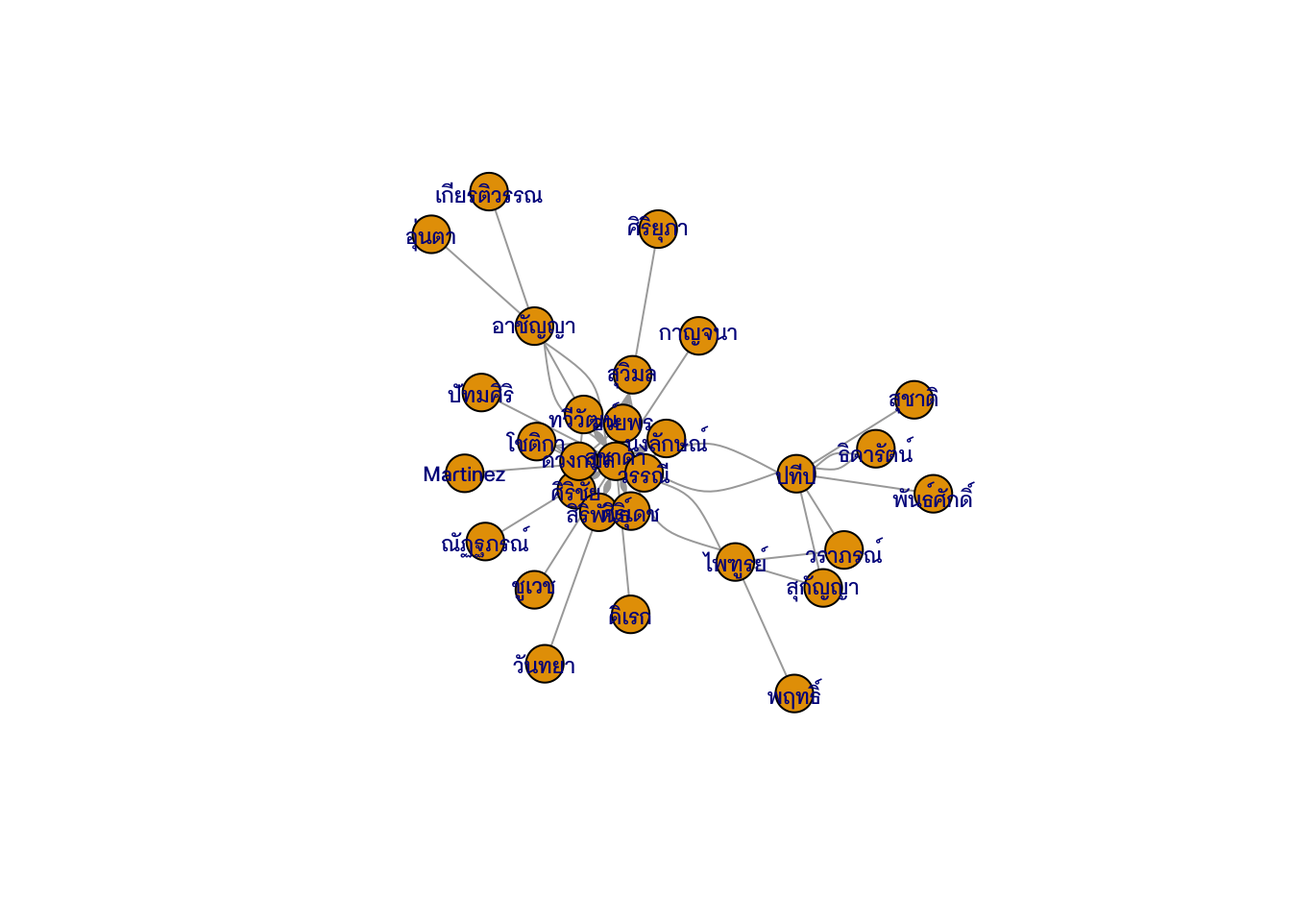
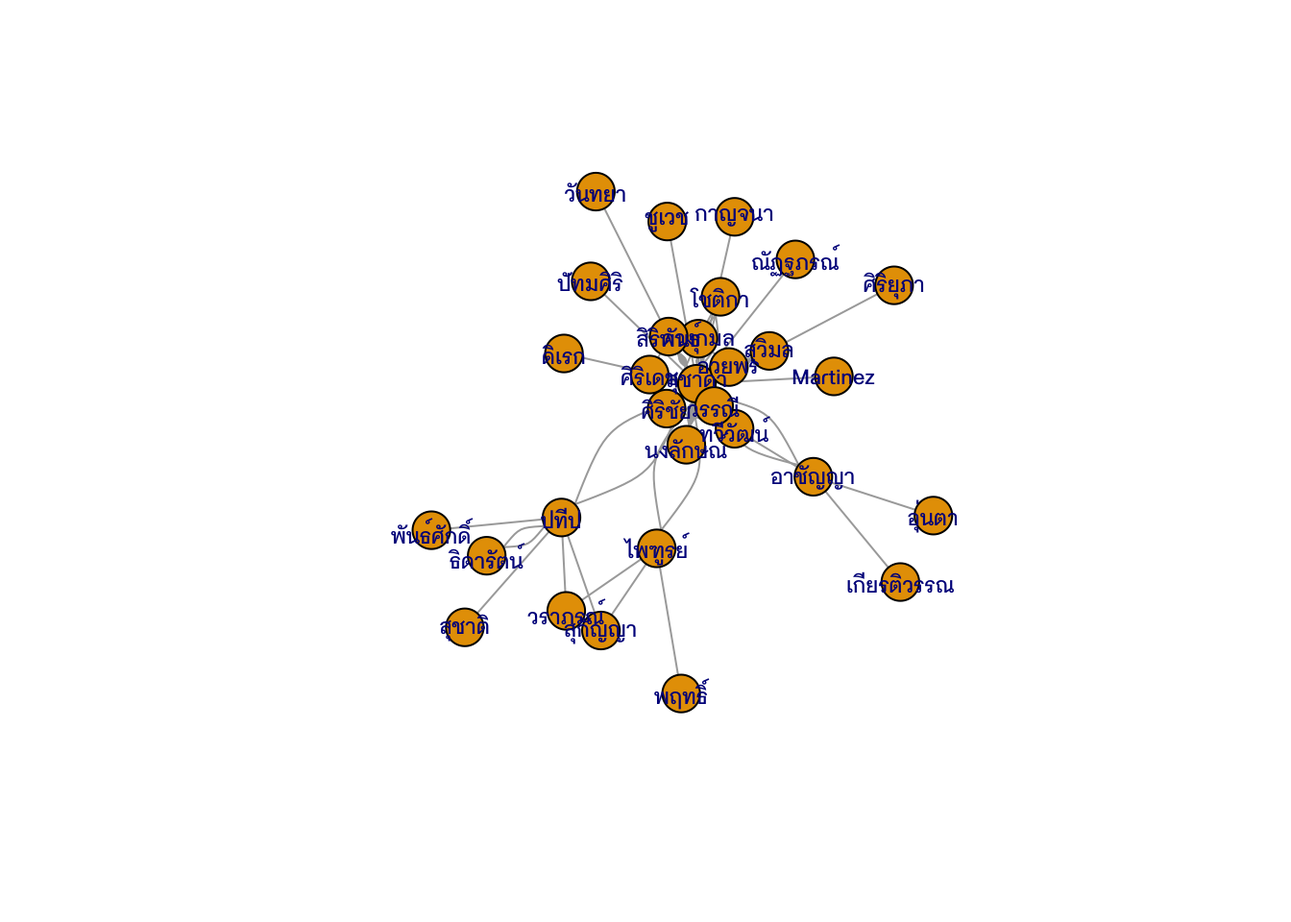
update

diff --git a/DataVisualization/week11/index.html b/DataVisualization/week11/index.html
@@ -134,6 +134,7 @@ pre > code.sourceCode > span > a:first-child::before { text-decoration: underlin
   <li><a href="#random-graphs-analysis" id="toc-random-graphs-analysis" class="nav-link" data-scroll-target="#random-graphs-analysis"><span class="header-section-number">8.6.3</span> Random Graphs Analysis</a></li>
   <li><a href="#กจกรรม-3" id="toc-กจกรรม-3" class="nav-link" data-scroll-target="#กจกรรม-3"><span class="header-section-number">8.6.4</span> กิจกรรม</a></li>
   </ul></li>
+  <li><a href="#เปรยบเทยบ-igraph-กบ-ggraph" id="toc-เปรยบเทยบ-igraph-กบ-ggraph" class="nav-link" data-scroll-target="#เปรยบเทยบ-igraph-กบ-ggraph"><span class="header-section-number">8.7</span> เปรียบเทียบ igraph กับ ggraph</a></li>
   </ul></li>
   <li><a href="#ทบทวน" id="toc-ทบทวน" class="nav-link" data-scroll-target="#ทบทวน"><span class="header-section-number">9</span> ทบทวน</a></li>
   </ul>
@@ -240,9 +241,9 @@ D 0 0 1 0</code></pre>
 <div class="sourceCode cell-code" id="cb6"><pre class="sourceCode r code-with-copy"><code class="sourceCode r"><span id="cb6-1"><a href="#cb6-1" aria-hidden="true" tabindex="-1"></a>g <span class="ot">&lt;-</span> <span class="fu">graph_from_edgelist</span>(<span class="fu">as.matrix</span>(edges), <span class="at">directed =</span> F)</span>
 <span id="cb6-2"><a href="#cb6-2" aria-hidden="true" tabindex="-1"></a>g</span></code><button title="Copy to Clipboard" class="code-copy-button"><i class="bi"></i></button></pre></div>
 <div class="cell-output cell-output-stdout">
-<pre><code>IGRAPH 0dd9c84 UN-- 4 4 -- 
+<pre><code>IGRAPH 0ab8567 UN-- 4 4 -- 
 + attr: name (v/c)
-+ edges from 0dd9c84 (vertex names):
++ edges from 0ab8567 (vertex names):
 [1] A--B B--C C--D A--D</code></pre>
 </div>
 </div>
@@ -401,9 +402,9 @@ $ mainStat          &lt;chr&gt; "HLM,SEM,Latent Growth Curve Model", "MANOVA, Pa
 <span id="cb18-4"><a href="#cb18-4" aria-hidden="true" tabindex="-1"></a>                                              <span class="at">directed =</span> F)</span>
 <span id="cb18-5"><a href="#cb18-5" aria-hidden="true" tabindex="-1"></a>teacher_network_igraph</span></code><button title="Copy to Clipboard" class="code-copy-button"><i class="bi"></i></button></pre></div>
 <div class="cell-output cell-output-stdout">
-<pre><code>IGRAPH a67702e UN-- 30 125 -- 
+<pre><code>IGRAPH 616bf61 UN-- 30 125 -- 
 + attr: name (v/c)
-+ edges from a67702e (vertex names):
++ edges from 616bf61 (vertex names):
  [1] ศิริชัย --สุชาดา    ศิริชัย --ทวีวัฒน์    ศิริชัย --ศิริเดช    สุชาดา--นงลักษณ์  
  [5] สุชาดา--วรรณี     สุชาดา--สิริพันธุ์    สุชาดา--ศิริเดช    สุชาดา--สิริพันธุ์   
  [9] สุชาดา--วรรณี     สุชาดา--ศิริเดช    สุชาดา--สิริพันธุ์    สุชาดา--วรรณี    
@@ -422,9 +423,9 @@ $ mainStat          &lt;chr&gt; "HLM,SEM,Latent Growth Curve Model", "MANOVA, Pa
 <span id="cb20-3"><a href="#cb20-3" aria-hidden="true" tabindex="-1"></a>                                                <span class="at">directed =</span> F)</span>
 <span id="cb20-4"><a href="#cb20-4" aria-hidden="true" tabindex="-1"></a>teacher_network_igraph </span></code><button title="Copy to Clipboard" class="code-copy-button"><i class="bi"></i></button></pre></div>
 <div class="cell-output cell-output-stdout">
-<pre><code>IGRAPH 25e24bc UN-- 30 125 -- 
+<pre><code>IGRAPH 2cb5a55 UN-- 30 125 -- 
 + attr: name (v/c)
-+ edges from 25e24bc (vertex names):
++ edges from 2cb5a55 (vertex names):
  [1] ศิริชัย --สุชาดา    ศิริชัย --ทวีวัฒน์    ศิริชัย --ศิริเดช    สุชาดา--นงลักษณ์  
  [5] สุชาดา--วรรณี     สุชาดา--สิริพันธุ์    สุชาดา--ศิริเดช    สุชาดา--สิริพันธุ์   
  [9] สุชาดา--วรรณี     สุชาดา--ศิริเดช    สุชาดา--สิริพันธุ์    สุชาดา--วรรณี    
@@ -464,7 +465,7 @@ $ mainStat          &lt;chr&gt; "HLM,SEM,Latent Growth Curve Model", "MANOVA, Pa
 <div class="cell">
 <div class="sourceCode cell-code" id="cb26"><pre class="sourceCode r code-with-copy"><code class="sourceCode r"><span id="cb26-1"><a href="#cb26-1" aria-hidden="true" tabindex="-1"></a><span class="fu">E</span>(teacher_network_igraph)</span></code><button title="Copy to Clipboard" class="code-copy-button"><i class="bi"></i></button></pre></div>
 <div class="cell-output cell-output-stdout">
-<pre><code>+ 125/125 edges from 25e24bc (vertex names):
+<pre><code>+ 125/125 edges from 2cb5a55 (vertex names):
  [1] ศิริชัย --สุชาดา    ศิริชัย --ทวีวัฒน์    ศิริชัย --ศิริเดช    สุชาดา--นงลักษณ์  
  [5] สุชาดา--วรรณี     สุชาดา--สิริพันธุ์    สุชาดา--ศิริเดช    สุชาดา--สิริพันธุ์   
  [9] สุชาดา--วรรณี     สุชาดา--ศิริเดช    สุชาดา--สิริพันธุ์    สุชาดา--วรรณี    
@@ -591,9 +592,9 @@ $gender
 <div class="cell">
 <div class="sourceCode cell-code" id="cb34"><pre class="sourceCode r code-with-copy"><code class="sourceCode r"><span id="cb34-1"><a href="#cb34-1" aria-hidden="true" tabindex="-1"></a>graph</span></code><button title="Copy to Clipboard" class="code-copy-button"><i class="bi"></i></button></pre></div>
 <div class="cell-output cell-output-stdout">
-<pre><code>IGRAPH 25e24bc UN-- 30 125 -- 
+<pre><code>IGRAPH 2cb5a55 UN-- 30 125 -- 
 + attr: name (v/c), role (e/c)
-+ edges from 25e24bc (vertex names):
++ edges from 2cb5a55 (vertex names):
  [1] ศิริชัย --สุชาดา    ศิริชัย --ทวีวัฒน์    ศิริชัย --ศิริเดช    สุชาดา--นงลักษณ์  
  [5] สุชาดา--วรรณี     สุชาดา--สิริพันธุ์    สุชาดา--ศิริเดช    สุชาดา--สิริพันธุ์   
  [9] สุชาดา--วรรณี     สุชาดา--ศิริเดช    สุชาดา--สิริพันธุ์    สุชาดา--วรรณี    
@@ -691,10 +692,10 @@ $gender
 <span id="cb40-3"><a href="#cb40-3" aria-hidden="true" tabindex="-1"></a>                                         <span class="at">directed =</span> F)</span>
 <span id="cb40-4"><a href="#cb40-4" aria-hidden="true" tabindex="-1"></a>graph_with_attr</span></code><button title="Copy to Clipboard" class="code-copy-button"><i class="bi"></i></button></pre></div>
 <div class="cell-output cell-output-stdout">
-<pre><code>IGRAPH 0841f13 UN-- 30 125 -- 
+<pre><code>IGRAPH 9e54baa UN-- 30 125 -- 
 + attr: name (v/c), gender (v/c), code (e/n), year (e/n), name_role
 | (e/c)
-+ edges from 0841f13 (vertex names):
++ edges from 9e54baa (vertex names):
  [1] ศิริชัย --สุชาดา    ศิริชัย --ทวีวัฒน์    ศิริชัย --ศิริเดช    สุชาดา--นงลักษณ์  
  [5] สุชาดา--วรรณี     สุชาดา--สิริพันธุ์    สุชาดา--ศิริเดช    สุชาดา--สิริพันธุ์   
  [9] สุชาดา--วรรณี     สุชาดา--ศิริเดช    สุชาดา--สิริพันธุ์    สุชาดา--วรรณี    
@@ -713,7 +714,7 @@ $gender
 <div class="cell">
 <div class="sourceCode cell-code" id="cb42"><pre class="sourceCode r code-with-copy"><code class="sourceCode r"><span id="cb42-1"><a href="#cb42-1" aria-hidden="true" tabindex="-1"></a><span class="fu">E</span>(graph_with_attr)[[<span class="fu">.from</span>(<span class="st">"ศิริชัย"</span>)]]</span></code><button title="Copy to Clipboard" class="code-copy-button"><i class="bi"></i></button></pre></div>
 <div class="cell-output cell-output-stdout">
-<pre><code>+ 10/125 edges from 0841f13 (vertex names):
+<pre><code>+ 10/125 edges from 9e54baa (vertex names):
     tail   head tid hid code year  name_role
 1   ศิริชัย  สุชาดา   1   2    1 2543 co_advisor
 2   ศิริชัย  ทวีวัฒน์   1   9    1 2543  commitee1
@@ -728,7 +729,7 @@ $gender
 </div>
 <div class="sourceCode cell-code" id="cb44"><pre class="sourceCode r code-with-copy"><code class="sourceCode r"><span id="cb44-1"><a href="#cb44-1" aria-hidden="true" tabindex="-1"></a><span class="fu">E</span>(graph_with_attr)[[year <span class="sc">&gt;</span> <span class="dv">2550</span>]]</span></code><button title="Copy to Clipboard" class="code-copy-button"><i class="bi"></i></button></pre></div>
 <div class="cell-output cell-output-stdout">
-<pre><code>+ 28/125 edges from 0841f13 (vertex names):
+<pre><code>+ 28/125 edges from 9e54baa (vertex names):
     tail     head tid hid code year  name_role
 9  สุชาดา     วรรณี   2  12    5 2551 co_advisor
 10 สุชาดา    ศิริเดช   2  10    6 2551 co_advisor
@@ -761,7 +762,7 @@ $gender
 </div>
 <div class="sourceCode cell-code" id="cb46"><pre class="sourceCode r code-with-copy"><code class="sourceCode r"><span id="cb46-1"><a href="#cb46-1" aria-hidden="true" tabindex="-1"></a><span class="fu">V</span>(graph_with_attr)[[<span class="dv">1</span><span class="sc">:</span><span class="dv">6</span>]]</span></code><button title="Copy to Clipboard" class="code-copy-button"><i class="bi"></i></button></pre></div>
 <div class="cell-output cell-output-stdout">
-<pre><code>+ 6/30 vertices, named, from 0841f13:
+<pre><code>+ 6/30 vertices, named, from 9e54baa:
     name gender
 1   ศิริชัย   Male
 2  สุชาดา Female
@@ -772,7 +773,7 @@ $gender
 </div>
 <div class="sourceCode cell-code" id="cb48"><pre class="sourceCode r code-with-copy"><code class="sourceCode r"><span id="cb48-1"><a href="#cb48-1" aria-hidden="true" tabindex="-1"></a><span class="fu">V</span>(graph_with_attr)[[gender <span class="sc">==</span> <span class="st">"Male"</span>]]</span></code><button title="Copy to Clipboard" class="code-copy-button"><i class="bi"></i></button></pre></div>
 <div class="cell-output cell-output-stdout">
-<pre><code>+ 11/30 vertices, named, from 0841f13:
+<pre><code>+ 11/30 vertices, named, from 9e54baa:
        name gender
 1      ศิริชัย   Male
 3       ปทีป   Male
@@ -797,10 +798,10 @@ $gender
 <span id="cb50-2"><a href="#cb50-2" aria-hidden="true" tabindex="-1"></a><span class="fu">V</span>(graph_with_attr)<span class="sc">$</span>color <span class="ot">&lt;-</span> <span class="fu">ifelse</span>(<span class="fu">V</span>(graph_with_attr)<span class="sc">$</span>gender <span class="sc">==</span> <span class="st">"Male"</span>, <span class="st">"steelblue"</span>,<span class="st">"orange"</span>)</span>
 <span id="cb50-3"><a href="#cb50-3" aria-hidden="true" tabindex="-1"></a>graph_with_attr</span></code><button title="Copy to Clipboard" class="code-copy-button"><i class="bi"></i></button></pre></div>
 <div class="cell-output cell-output-stdout">
-<pre><code>IGRAPH 0841f13 UN-- 30 125 -- 
+<pre><code>IGRAPH 9e54baa UN-- 30 125 -- 
 + attr: name (v/c), gender (v/c), color (v/c), code (e/n), year (e/n),
 | name_role (e/c)
-+ edges from 0841f13 (vertex names):
++ edges from 9e54baa (vertex names):
  [1] ศิริชัย --สุชาดา    ศิริชัย --ทวีวัฒน์    ศิริชัย --ศิริเดช    สุชาดา--นงลักษณ์  
  [5] สุชาดา--วรรณี     สุชาดา--สิริพันธุ์    สุชาดา--ศิริเดช    สุชาดา--สิริพันธุ์   
  [9] สุชาดา--วรรณี     สุชาดา--ศิริเดช    สุชาดา--สิริพันธุ์    สุชาดา--วรรณี    
@@ -1186,7 +1187,7 @@ $gender
 <div class="sourceCode cell-code" id="cb73"><pre class="sourceCode r code-with-copy"><code class="sourceCode r"><span id="cb73-1"><a href="#cb73-1" aria-hidden="true" tabindex="-1"></a><span class="do">## อ.ดวงกมลเชิญใครมาเป็นกรรมการบ้าง</span></span>
 <span id="cb73-2"><a href="#cb73-2" aria-hidden="true" tabindex="-1"></a><span class="fu">incident</span>(g3, <span class="st">"ดวงกมล"</span>, <span class="at">mode =</span> <span class="st">"in"</span>) </span></code><button title="Copy to Clipboard" class="code-copy-button"><i class="bi"></i></button></pre></div>
 <div class="cell-output cell-output-stdout">
-<pre><code>+ 6/16 edges from 95b52e6 (vertex names):
+<pre><code>+ 6/16 edges from faf5d4c (vertex names):
 [1] วรรณี -&gt;ดวงกมล ศิริชัย -&gt;ดวงกมล สิริพันธุ์-&gt;ดวงกมล สุชาดา-&gt;ดวงกมล อวยพร-&gt;ดวงกมล
 [6] โชติกา-&gt;ดวงกมล</code></pre>
 </div>
@@ -1254,12 +1255,12 @@ $gender
 <div class="cell">
 <div class="sourceCode cell-code" id="cb78"><pre class="sourceCode r code-with-copy"><code class="sourceCode r"><span id="cb78-1"><a href="#cb78-1" aria-hidden="true" tabindex="-1"></a><span class="fu">neighbors</span>(all_g, <span class="st">"ศิริเดช"</span>, <span class="at">mode =</span> <span class="st">"all"</span>)</span></code><button title="Copy to Clipboard" class="code-copy-button"><i class="bi"></i></button></pre></div>
 <div class="cell-output cell-output-stdout">
-<pre><code>+ 5/30 vertices, named, from 5d4f491:
+<pre><code>+ 5/30 vertices, named, from 9f09caf:
 [1] ศิริชัย  สิริพันธุ์ สุชาดา สุชาดา สุชาดา</code></pre>
 </div>
 <div class="sourceCode cell-code" id="cb80"><pre class="sourceCode r code-with-copy"><code class="sourceCode r"><span id="cb80-1"><a href="#cb80-1" aria-hidden="true" tabindex="-1"></a><span class="fu">neighbors</span>(all_g, <span class="st">"ศิริเดช"</span>, <span class="at">mode =</span> <span class="st">"in"</span>)</span></code><button title="Copy to Clipboard" class="code-copy-button"><i class="bi"></i></button></pre></div>
 <div class="cell-output cell-output-stdout">
-<pre><code>+ 5/30 vertices, named, from 5d4f491:
+<pre><code>+ 5/30 vertices, named, from 9f09caf:
 [1] ศิริชัย  สิริพันธุ์ สุชาดา สุชาดา สุชาดา</code></pre>
 </div>
 </div>
@@ -1283,7 +1284,7 @@ $gender
 <span id="cb84-2"><a href="#cb84-2" aria-hidden="true" tabindex="-1"></a>y <span class="ot">&lt;-</span> <span class="fu">neighbors</span>(all_g, <span class="st">"พฤทธิ์"</span>, <span class="at">mode =</span> <span class="st">"all"</span>)</span>
 <span id="cb84-3"><a href="#cb84-3" aria-hidden="true" tabindex="-1"></a><span class="fu">intersection</span>(x,y)</span></code><button title="Copy to Clipboard" class="code-copy-button"><i class="bi"></i></button></pre></div>
 <div class="cell-output cell-output-stdout">
-<pre><code>+ 1/30 vertex, named, from 5d4f491:
+<pre><code>+ 1/30 vertex, named, from 9f09caf:
 [1] ไพฑูรย์</code></pre>
 </div>
 </div>
@@ -1295,7 +1296,7 @@ $gender
 <div class="sourceCode cell-code" id="cb86"><pre class="sourceCode r code-with-copy"><code class="sourceCode r"><span id="cb86-1"><a href="#cb86-1" aria-hidden="true" tabindex="-1"></a><span class="fu">farthest_vertices</span>(all_g)</span></code><button title="Copy to Clipboard" class="code-copy-button"><i class="bi"></i></button></pre></div>
 <div class="cell-output cell-output-stdout">
 <pre><code>$vertices
-+ 2/30 vertices, named, from 5d4f491:
++ 2/30 vertices, named, from 9f09caf:
 [1] ดวงกมล ศิริยุภา 
 
 $distance
@@ -1306,7 +1307,7 @@ $distance
 <div class="cell">
 <div class="sourceCode cell-code" id="cb88"><pre class="sourceCode r code-with-copy"><code class="sourceCode r"><span id="cb88-1"><a href="#cb88-1" aria-hidden="true" tabindex="-1"></a><span class="fu">get_diameter</span>(all_g)</span></code><button title="Copy to Clipboard" class="code-copy-button"><i class="bi"></i></button></pre></div>
 <div class="cell-output cell-output-stdout">
-<pre><code>+ 4/30 vertices, named, from 5d4f491:
+<pre><code>+ 4/30 vertices, named, from 9f09caf:
 [1] ดวงกมล สุชาดา  สุวิมล   ศิริยุภา </code></pre>
 </div>
 </div>
@@ -1315,7 +1316,7 @@ $distance
 <div class="sourceCode cell-code" id="cb90"><pre class="sourceCode r code-with-copy"><code class="sourceCode r"><span id="cb90-1"><a href="#cb90-1" aria-hidden="true" tabindex="-1"></a><span class="fu">ego</span>(all_g, <span class="dv">1</span>, <span class="st">"สุชาดา"</span>, <span class="at">mode =</span> <span class="st">"in"</span>)</span></code><button title="Copy to Clipboard" class="code-copy-button"><i class="bi"></i></button></pre></div>
 <div class="cell-output cell-output-stdout">
 <pre><code>[[1]]
-+ 8/30 vertices, named, from 5d4f491:
++ 8/30 vertices, named, from 9f09caf:
 [1] สุชาดา  ดวงกมล ปทีป    ศิริชัย   สิริพันธุ์  สุวิมล   อาชัญญา ไพฑูรย์ </code></pre>
 </div>
 </div>
@@ -1533,6 +1534,119 @@ $distance
 </blockquote>
 </section>
 </section>
+<section id="เปรยบเทยบ-igraph-กบ-ggraph" class="level3" data-number="8.7">
+<h3 data-number="8.7" class="anchored" data-anchor-id="เปรยบเทยบ-igraph-กบ-ggraph"><span class="header-section-number">8.7</span> เปรียบเทียบ igraph กับ ggraph</h3>
+<p>การวิเคราะห์ด้านล่างแสดงการสร้างและวิเคราะห์เครือข่ายการดูแลวิทยานิพนธ์ที่มีอาจารย์สุชาดาเกี่ยวข้อง โดยมีการใส่ค่าสถิติของเครือข่ายลงไปบนแผนภาพ แผนภาพแรกลอง plot ด้วย igraph หากลองทำตามจะพบว่าการสร้างแผนภาพให้ได้อย่างต้นฉบับนี้ทำค่อนข้างลำบาก การทำซ้ำก็อาจทำได้ยากด้วยเช่นกัน</p>
+<div class="cell">
+<div class="sourceCode cell-code" id="cb112"><pre class="sourceCode r code-with-copy"><code class="sourceCode r"><span id="cb112-1"><a href="#cb112-1" aria-hidden="true" tabindex="-1"></a><span class="fu">library</span>(RColorBrewer)</span>
+<span id="cb112-2"><a href="#cb112-2" aria-hidden="true" tabindex="-1"></a></span>
+<span id="cb112-3"><a href="#cb112-3" aria-hidden="true" tabindex="-1"></a>g <span class="ot">&lt;-</span> thesis_data <span class="sc">%&gt;%</span> </span>
+<span id="cb112-4"><a href="#cb112-4" aria-hidden="true" tabindex="-1"></a>  <span class="fu">select</span>(code, year, advisor, co_advisor, <span class="fu">starts_with</span>(<span class="st">"commitee"</span>)) <span class="sc">%&gt;%</span> </span>
+<span id="cb112-5"><a href="#cb112-5" aria-hidden="true" tabindex="-1"></a>  <span class="fu">pivot_longer</span>(<span class="at">cols =</span> <span class="sc">-</span><span class="fu">c</span>(<span class="dv">1</span><span class="sc">:</span><span class="dv">3</span>)) <span class="sc">%&gt;%</span> </span>
+<span id="cb112-6"><a href="#cb112-6" aria-hidden="true" tabindex="-1"></a>  <span class="fu">drop_na</span>() <span class="sc">%&gt;%</span> </span>
+<span id="cb112-7"><a href="#cb112-7" aria-hidden="true" tabindex="-1"></a>  <span class="do">## ตัดนามสกุลออก</span></span>
+<span id="cb112-8"><a href="#cb112-8" aria-hidden="true" tabindex="-1"></a>  <span class="fu">mutate</span>(<span class="at">advisor =</span> <span class="fu">str_remove</span>(advisor, <span class="st">"</span><span class="sc">\\</span><span class="st">s.*"</span>),</span>
+<span id="cb112-9"><a href="#cb112-9" aria-hidden="true" tabindex="-1"></a>         <span class="at">value =</span> <span class="fu">str_remove</span>(value, <span class="st">"</span><span class="sc">\\</span><span class="st">s.*"</span>)) <span class="sc">%&gt;%</span> </span>
+<span id="cb112-10"><a href="#cb112-10" aria-hidden="true" tabindex="-1"></a>  <span class="fu">mutate</span>(<span class="at">value =</span> <span class="fu">str_replace</span>(value, <span class="st">"Professor"</span>,<span class="st">"Martinez"</span>)) <span class="sc">%&gt;%</span> </span>
+<span id="cb112-11"><a href="#cb112-11" aria-hidden="true" tabindex="-1"></a>  <span class="fu">rename</span>(<span class="at">commitee =</span> value,</span>
+<span id="cb112-12"><a href="#cb112-12" aria-hidden="true" tabindex="-1"></a>         <span class="at">role =</span> name) <span class="sc">%&gt;%</span> </span>
+<span id="cb112-13"><a href="#cb112-13" aria-hidden="true" tabindex="-1"></a>  <span class="fu">group_by</span>(advisor, commitee) <span class="sc">%&gt;%</span> </span>
+<span id="cb112-14"><a href="#cb112-14" aria-hidden="true" tabindex="-1"></a>  <span class="fu">count</span>() <span class="sc">%&gt;%</span> </span>
+<span id="cb112-15"><a href="#cb112-15" aria-hidden="true" tabindex="-1"></a>  <span class="fu">rename</span>(<span class="at">num_thesis =</span> n) <span class="sc">%&gt;%</span> </span>
+<span id="cb112-16"><a href="#cb112-16" aria-hidden="true" tabindex="-1"></a>  <span class="fu">ungroup</span>() <span class="sc">%&gt;%</span> </span>
+<span id="cb112-17"><a href="#cb112-17" aria-hidden="true" tabindex="-1"></a>  <span class="fu">graph_from_data_frame</span>(<span class="at">directed =</span> <span class="cn">TRUE</span>)</span>
+<span id="cb112-18"><a href="#cb112-18" aria-hidden="true" tabindex="-1"></a></span>
+<span id="cb112-19"><a href="#cb112-19" aria-hidden="true" tabindex="-1"></a><span class="fu">V</span>(g)<span class="sc">$</span>in_degree <span class="ot">&lt;-</span> <span class="fu">degree</span>(g, <span class="at">mode =</span> <span class="st">"in"</span>)</span>
+<span id="cb112-20"><a href="#cb112-20" aria-hidden="true" tabindex="-1"></a><span class="fu">V</span>(g)<span class="sc">$</span>out_degree <span class="ot">&lt;-</span> <span class="fu">degree</span>(g, <span class="at">mode =</span> <span class="st">"out"</span>)</span>
+<span id="cb112-21"><a href="#cb112-21" aria-hidden="true" tabindex="-1"></a></span>
+<span id="cb112-22"><a href="#cb112-22" aria-hidden="true" tabindex="-1"></a>eigens <span class="ot">&lt;-</span> <span class="fu">eigen_centrality</span>(g)<span class="sc">$</span>vector</span>
+<span id="cb112-23"><a href="#cb112-23" aria-hidden="true" tabindex="-1"></a>eigens <span class="ot">&lt;-</span> <span class="fu">cut</span>(eigens, <span class="at">breaks =</span> <span class="dv">3</span>, <span class="at">labels =</span> <span class="fu">c</span>(<span class="st">"low"</span>,<span class="st">"moderate"</span>,<span class="st">"high"</span>))</span>
+<span id="cb112-24"><a href="#cb112-24" aria-hidden="true" tabindex="-1"></a>eigen_color <span class="ot">&lt;-</span> <span class="fu">brewer.pal</span>(<span class="dv">3</span> , <span class="st">"Reds"</span>)</span>
+<span id="cb112-25"><a href="#cb112-25" aria-hidden="true" tabindex="-1"></a><span class="fu">V</span>(g)<span class="sc">$</span>eigen <span class="ot">&lt;-</span> eigen_color[eigens]</span>
+<span id="cb112-26"><a href="#cb112-26" aria-hidden="true" tabindex="-1"></a></span>
+<span id="cb112-27"><a href="#cb112-27" aria-hidden="true" tabindex="-1"></a><span class="fu">par</span>(<span class="at">family =</span> <span class="st">"ChulaCharasNew"</span>)</span>
+<span id="cb112-28"><a href="#cb112-28" aria-hidden="true" tabindex="-1"></a><span class="fu">set.seed</span>(<span class="dv">345</span>)</span>
+<span id="cb112-29"><a href="#cb112-29" aria-hidden="true" tabindex="-1"></a><span class="fu">plot</span>(g,</span>
+<span id="cb112-30"><a href="#cb112-30" aria-hidden="true" tabindex="-1"></a>     <span class="at">edge.arrow.size =</span> <span class="dv">1</span>,</span>
+<span id="cb112-31"><a href="#cb112-31" aria-hidden="true" tabindex="-1"></a>     <span class="at">edge.arrow.width =</span> <span class="fl">0.5</span>,</span>
+<span id="cb112-32"><a href="#cb112-32" aria-hidden="true" tabindex="-1"></a>     <span class="at">edge.curved =</span> <span class="dv">0</span>,</span>
+<span id="cb112-33"><a href="#cb112-33" aria-hidden="true" tabindex="-1"></a>     <span class="co">#edge.width = E(g)$num_thesis,</span></span>
+<span id="cb112-34"><a href="#cb112-34" aria-hidden="true" tabindex="-1"></a>     <span class="at">edge.color =</span> <span class="fu">adjustcolor</span>(<span class="st">"#091057"</span>, <span class="at">alpha.f =</span> <span class="fl">0.5</span>),</span>
+<span id="cb112-35"><a href="#cb112-35" aria-hidden="true" tabindex="-1"></a>     <span class="at">vertex.color =</span> <span class="fu">V</span>(g)<span class="sc">$</span>eigen,</span>
+<span id="cb112-36"><a href="#cb112-36" aria-hidden="true" tabindex="-1"></a>     <span class="at">vertex.frame.color =</span> <span class="st">"grey"</span>,</span>
+<span id="cb112-37"><a href="#cb112-37" aria-hidden="true" tabindex="-1"></a>     <span class="at">vertex.size=</span> <span class="fu">V</span>(g)<span class="sc">$</span>out_degree<span class="sc">*</span><span class="dv">2</span>,</span>
+<span id="cb112-38"><a href="#cb112-38" aria-hidden="true" tabindex="-1"></a>     <span class="at">vertex.label.color =</span> <span class="st">"black"</span>,</span>
+<span id="cb112-39"><a href="#cb112-39" aria-hidden="true" tabindex="-1"></a>     <span class="at">vertex.label.family =</span> <span class="st">"ChulaCharasNew"</span>,</span>
+<span id="cb112-40"><a href="#cb112-40" aria-hidden="true" tabindex="-1"></a>     <span class="at">vertex.label.cex =</span> <span class="dv">1</span>,</span>
+<span id="cb112-41"><a href="#cb112-41" aria-hidden="true" tabindex="-1"></a>     <span class="at">layout =</span> <span class="fu">layout_with_kk</span>(g))</span>
+<span id="cb112-42"><a href="#cb112-42" aria-hidden="true" tabindex="-1"></a></span>
+<span id="cb112-43"><a href="#cb112-43" aria-hidden="true" tabindex="-1"></a><span class="co"># Add a legend</span></span>
+<span id="cb112-44"><a href="#cb112-44" aria-hidden="true" tabindex="-1"></a><span class="fu">legend</span>(<span class="at">x =</span> <span class="sc">-</span><span class="fl">2.13</span>, <span class="at">y=</span> <span class="sc">-</span><span class="fl">0.7</span>,  <span class="co"># position of the legend</span></span>
+<span id="cb112-45"><a href="#cb112-45" aria-hidden="true" tabindex="-1"></a>       <span class="at">legend =</span> <span class="fu">c</span>(<span class="st">"Low Eigen"</span>, <span class="st">"Moderate Eigen"</span> , <span class="st">"High Eigen"</span>),  </span>
+<span id="cb112-46"><a href="#cb112-46" aria-hidden="true" tabindex="-1"></a>       <span class="at">col =</span> eigen_color,       </span>
+<span id="cb112-47"><a href="#cb112-47" aria-hidden="true" tabindex="-1"></a>       <span class="at">pch =</span> <span class="dv">21</span>,                 <span class="co"># shape for vertices</span></span>
+<span id="cb112-48"><a href="#cb112-48" aria-hidden="true" tabindex="-1"></a>       <span class="at">pt.bg =</span> eigen_color,      <span class="co"># background colors for legend points</span></span>
+<span id="cb112-49"><a href="#cb112-49" aria-hidden="true" tabindex="-1"></a>       <span class="at">pt.cex =</span> <span class="dv">2</span>,                             <span class="co"># size of legend points</span></span>
+<span id="cb112-50"><a href="#cb112-50" aria-hidden="true" tabindex="-1"></a>       <span class="at">cex =</span> <span class="dv">1</span>,                              <span class="co"># size of text</span></span>
+<span id="cb112-51"><a href="#cb112-51" aria-hidden="true" tabindex="-1"></a>       <span class="at">bty =</span> <span class="st">"n"</span>)                              <span class="co"># remove box around legend</span></span>
+<span id="cb112-52"><a href="#cb112-52" aria-hidden="true" tabindex="-1"></a></span>
+<span id="cb112-53"><a href="#cb112-53" aria-hidden="true" tabindex="-1"></a><span class="fu">legend</span>(<span class="at">x =</span> <span class="sc">-</span><span class="fl">2.13</span>, <span class="at">y=</span> <span class="sc">-</span><span class="fl">0.2</span>,  </span>
+<span id="cb112-54"><a href="#cb112-54" aria-hidden="true" tabindex="-1"></a>       <span class="at">legend =</span> <span class="fu">c</span>(<span class="st">"Out-Degree = 18"</span>),  </span>
+<span id="cb112-55"><a href="#cb112-55" aria-hidden="true" tabindex="-1"></a>       <span class="at">col =</span> <span class="st">"grey"</span>,       </span>
+<span id="cb112-56"><a href="#cb112-56" aria-hidden="true" tabindex="-1"></a>       <span class="at">adj =</span> <span class="fl">0.25</span>,</span>
+<span id="cb112-57"><a href="#cb112-57" aria-hidden="true" tabindex="-1"></a>       <span class="at">pch =</span> <span class="dv">21</span>,                 </span>
+<span id="cb112-58"><a href="#cb112-58" aria-hidden="true" tabindex="-1"></a>       <span class="at">pt.lwd =</span> <span class="dv">1</span>,</span>
+<span id="cb112-59"><a href="#cb112-59" aria-hidden="true" tabindex="-1"></a>       <span class="at">pt.bg =</span> <span class="st">"grey"</span>,      </span>
+<span id="cb112-60"><a href="#cb112-60" aria-hidden="true" tabindex="-1"></a>       <span class="at">pt.cex =</span> <span class="dv">10</span>,                             </span>
+<span id="cb112-61"><a href="#cb112-61" aria-hidden="true" tabindex="-1"></a>       <span class="at">cex =</span> <span class="dv">1</span>,                              </span>
+<span id="cb112-62"><a href="#cb112-62" aria-hidden="true" tabindex="-1"></a>       <span class="at">bty =</span> <span class="st">"n"</span>)                              </span>
+<span id="cb112-63"><a href="#cb112-63" aria-hidden="true" tabindex="-1"></a></span>
+<span id="cb112-64"><a href="#cb112-64" aria-hidden="true" tabindex="-1"></a><span class="fu">legend</span>(<span class="at">x =</span> <span class="sc">-</span><span class="fl">2.13</span>, <span class="at">y=</span> <span class="sc">-</span><span class="fl">0.5</span>,  <span class="co"># position of the legend</span></span>
+<span id="cb112-65"><a href="#cb112-65" aria-hidden="true" tabindex="-1"></a>       <span class="at">legend =</span> <span class="fu">c</span>(<span class="st">"Out-Degree = 6"</span>),  </span>
+<span id="cb112-66"><a href="#cb112-66" aria-hidden="true" tabindex="-1"></a>       <span class="at">col =</span> <span class="st">"grey"</span>,       </span>
+<span id="cb112-67"><a href="#cb112-67" aria-hidden="true" tabindex="-1"></a>       <span class="at">adj =</span> <span class="fl">0.25</span>,</span>
+<span id="cb112-68"><a href="#cb112-68" aria-hidden="true" tabindex="-1"></a>       <span class="at">pch =</span> <span class="dv">21</span>,                 </span>
+<span id="cb112-69"><a href="#cb112-69" aria-hidden="true" tabindex="-1"></a>       <span class="at">pt.lwd =</span> <span class="dv">1</span>,</span>
+<span id="cb112-70"><a href="#cb112-70" aria-hidden="true" tabindex="-1"></a>       <span class="at">pt.bg =</span> <span class="st">"grey"</span>,      </span>
+<span id="cb112-71"><a href="#cb112-71" aria-hidden="true" tabindex="-1"></a>       <span class="at">pt.cex =</span> <span class="dv">4</span>,                             </span>
+<span id="cb112-72"><a href="#cb112-72" aria-hidden="true" tabindex="-1"></a>       <span class="at">cex =</span> <span class="dv">1</span>,                              </span>
+<span id="cb112-73"><a href="#cb112-73" aria-hidden="true" tabindex="-1"></a>       <span class="at">bty =</span> <span class="st">"n"</span>)     </span></code><button title="Copy to Clipboard" class="code-copy-button"><i class="bi"></i></button></pre></div>
+<div class="cell-output-display">
+<div>
+<figure class="figure">
+<p><img src="index_files/figure-html/unnamed-chunk-59-1.png" class="img-fluid figure-img" width="1152"></p>
+</figure>
+</div>
+</div>
+</div>
+<p>คราวนี้ลองสร้างแผนภาพเดิมด้วย ggraph จะเห็นว่าการสร้าง การ mapping attribute การปรับแต่งและการทำซ้ำ ทำได้ง่ายกว่า igraph อย่างไรก็ตาม ggraph จะไม่ได้ theme เดียวกับ igraph</p>
+<div class="cell">
+<div class="sourceCode cell-code" id="cb113"><pre class="sourceCode r code-with-copy"><code class="sourceCode r"><span id="cb113-1"><a href="#cb113-1" aria-hidden="true" tabindex="-1"></a><span class="fu">V</span>(g)<span class="sc">$</span>eigen <span class="ot">&lt;-</span> eigens</span>
+<span id="cb113-2"><a href="#cb113-2" aria-hidden="true" tabindex="-1"></a></span>
+<span id="cb113-3"><a href="#cb113-3" aria-hidden="true" tabindex="-1"></a>g <span class="sc">%&gt;%</span> </span>
+<span id="cb113-4"><a href="#cb113-4" aria-hidden="true" tabindex="-1"></a>  <span class="fu">ggraph</span>(<span class="st">"kk"</span>)<span class="sc">+</span></span>
+<span id="cb113-5"><a href="#cb113-5" aria-hidden="true" tabindex="-1"></a>  <span class="fu">geom_edge_link</span>(<span class="fu">aes</span>(<span class="at">linewidth =</span> num_thesis),</span>
+<span id="cb113-6"><a href="#cb113-6" aria-hidden="true" tabindex="-1"></a>                 <span class="at">edge_color =</span> <span class="st">"grey90"</span>)<span class="sc">+</span></span>
+<span id="cb113-7"><a href="#cb113-7" aria-hidden="true" tabindex="-1"></a>  <span class="fu">geom_edge_link</span>(<span class="at">arrow =</span> <span class="fu">arrow</span>(<span class="at">type =</span> <span class="st">"closed"</span>, <span class="at">length =</span> <span class="fu">unit</span>(<span class="fl">0.08</span>, <span class="st">"inches"</span>)),</span>
+<span id="cb113-8"><a href="#cb113-8" aria-hidden="true" tabindex="-1"></a>                 <span class="at">edge_color =</span> <span class="st">"#243642"</span>, <span class="at">linewidth =</span> <span class="fl">0.2</span>, <span class="at">alpha =</span> <span class="fl">0.8</span>)<span class="sc">+</span></span>
+<span id="cb113-9"><a href="#cb113-9" aria-hidden="true" tabindex="-1"></a>  <span class="fu">geom_node_point</span>(<span class="fu">aes</span>(<span class="at">size =</span> out_degree, <span class="at">color =</span> eigen))<span class="sc">+</span></span>
+<span id="cb113-10"><a href="#cb113-10" aria-hidden="true" tabindex="-1"></a>  <span class="fu">geom_node_text</span>(<span class="fu">aes</span>(<span class="at">label =</span> name), <span class="at">check_overlap =</span> <span class="cn">TRUE</span>,</span>
+<span id="cb113-11"><a href="#cb113-11" aria-hidden="true" tabindex="-1"></a>                 <span class="at">family =</span> <span class="st">"ChulaCharasNew"</span>)<span class="sc">+</span></span>
+<span id="cb113-12"><a href="#cb113-12" aria-hidden="true" tabindex="-1"></a>  <span class="fu">labs</span>(<span class="at">color =</span> <span class="st">"Eigen Centrality"</span>,</span>
+<span id="cb113-13"><a href="#cb113-13" aria-hidden="true" tabindex="-1"></a>       <span class="at">size =</span> <span class="st">"Out-Degree"</span>)<span class="sc">+</span></span>
+<span id="cb113-14"><a href="#cb113-14" aria-hidden="true" tabindex="-1"></a>  <span class="fu">scale_radius</span>(<span class="at">breaks =</span> <span class="fu">c</span>(<span class="dv">6</span>,<span class="dv">18</span>), <span class="at">range =</span> <span class="fu">c</span>(<span class="dv">2</span>,<span class="dv">20</span>))<span class="sc">+</span></span>
+<span id="cb113-15"><a href="#cb113-15" aria-hidden="true" tabindex="-1"></a>  <span class="fu">scale_color_brewer</span>(<span class="at">type =</span> <span class="st">"seq"</span>, <span class="at">palette =</span> <span class="st">"Reds"</span>)<span class="sc">+</span></span>
+<span id="cb113-16"><a href="#cb113-16" aria-hidden="true" tabindex="-1"></a>  ggforce<span class="sc">::</span><span class="fu">theme_no_axes</span>()<span class="sc">+</span></span>
+<span id="cb113-17"><a href="#cb113-17" aria-hidden="true" tabindex="-1"></a>  <span class="fu">theme</span>(<span class="at">text =</span> <span class="fu">element_text</span>(<span class="at">family =</span> <span class="st">"ChulaCharasNew"</span>))</span></code><button title="Copy to Clipboard" class="code-copy-button"><i class="bi"></i></button></pre></div>
+<div class="cell-output-display">
+<div>
+<figure class="figure">
+<p><img src="index_files/figure-html/unnamed-chunk-60-1.png" class="img-fluid figure-img" width="672"></p>
+</figure>
+</div>
+</div>
+</div>
+</section>
 </section>
 <section id="ทบทวน" class="level2" data-number="9">
 <h2 data-number="9" class="anchored" data-anchor-id="ทบทวน"><span class="header-section-number">9</span> ทบทวน</h2>
@@ -1541,21 +1655,21 @@ $distance
 <li><p>วิเคราะห์โครงสร้างของ network ในข้อ 1.</p></li>
 </ol>
 <div class="cell">
-<div class="sourceCode cell-code" id="cb112"><pre class="sourceCode r code-with-copy"><code class="sourceCode r"><span id="cb112-1"><a href="#cb112-1" aria-hidden="true" tabindex="-1"></a><span class="fu">library</span>(thaitextrecipe)</span>
-<span id="cb112-2"><a href="#cb112-2" aria-hidden="true" tabindex="-1"></a><span class="do">## สร้าง network ของ mainStat กับคำสำคัญหลักของงานวิจัย</span></span>
-<span id="cb112-3"><a href="#cb112-3" aria-hidden="true" tabindex="-1"></a>thesis_data <span class="sc">%&gt;%</span> <span class="fu">glimpse</span>()</span>
-<span id="cb112-4"><a href="#cb112-4" aria-hidden="true" tabindex="-1"></a>thesis_data <span class="sc">%&gt;%</span> </span>
-<span id="cb112-5"><a href="#cb112-5" aria-hidden="true" tabindex="-1"></a>  <span class="fu">select</span>(mainStat, depart) <span class="sc">%&gt;%</span> </span>
-<span id="cb112-6"><a href="#cb112-6" aria-hidden="true" tabindex="-1"></a>  <span class="fu">mutate</span>(<span class="at">mainStat =</span> <span class="fu">str_replace_all</span>(mainStat, <span class="st">","</span>,<span class="st">" "</span>)) <span class="sc">%&gt;%</span> </span>
-<span id="cb112-7"><a href="#cb112-7" aria-hidden="true" tabindex="-1"></a>  <span class="fu">unnest_tokens</span>(word, mainStat, </span>
-<span id="cb112-8"><a href="#cb112-8" aria-hidden="true" tabindex="-1"></a>                <span class="at">token =</span> thai_tokenizer,</span>
-<span id="cb112-9"><a href="#cb112-9" aria-hidden="true" tabindex="-1"></a>                <span class="at">token_engine =</span> <span class="st">"longest"</span>) <span class="sc">%&gt;%</span> </span>
-<span id="cb112-10"><a href="#cb112-10" aria-hidden="true" tabindex="-1"></a>  <span class="fu">filter</span>(<span class="sc">!</span>word <span class="sc">%in%</span> stop_words) <span class="sc">%&gt;%</span> </span>
-<span id="cb112-11"><a href="#cb112-11" aria-hidden="true" tabindex="-1"></a>  <span class="fu">filter</span>(<span class="sc">!</span><span class="fu">str_detect</span>(word, <span class="st">"</span><span class="sc">\\</span><span class="st">d+"</span>)) <span class="sc">%&gt;%</span> </span>
-<span id="cb112-12"><a href="#cb112-12" aria-hidden="true" tabindex="-1"></a>  <span class="fu">mutate</span>(<span class="at">word =</span> <span class="fu">str_squish</span>(word)) <span class="sc">%&gt;%</span> </span>
-<span id="cb112-13"><a href="#cb112-13" aria-hidden="true" tabindex="-1"></a>  <span class="fu">group_by</span>(depart, word) <span class="sc">%&gt;%</span> </span>
-<span id="cb112-14"><a href="#cb112-14" aria-hidden="true" tabindex="-1"></a>  <span class="fu">count</span>() <span class="sc">%&gt;%</span> </span>
-<span id="cb112-15"><a href="#cb112-15" aria-hidden="true" tabindex="-1"></a>  <span class="fu">arrange</span>(<span class="fu">desc</span>(n))</span></code><button title="Copy to Clipboard" class="code-copy-button"><i class="bi"></i></button></pre></div>
+<div class="sourceCode cell-code" id="cb114"><pre class="sourceCode r code-with-copy"><code class="sourceCode r"><span id="cb114-1"><a href="#cb114-1" aria-hidden="true" tabindex="-1"></a><span class="fu">library</span>(thaitextrecipe)</span>
+<span id="cb114-2"><a href="#cb114-2" aria-hidden="true" tabindex="-1"></a><span class="do">## สร้าง network ของ mainStat กับคำสำคัญหลักของงานวิจัย</span></span>
+<span id="cb114-3"><a href="#cb114-3" aria-hidden="true" tabindex="-1"></a>thesis_data <span class="sc">%&gt;%</span> <span class="fu">glimpse</span>()</span>
+<span id="cb114-4"><a href="#cb114-4" aria-hidden="true" tabindex="-1"></a>thesis_data <span class="sc">%&gt;%</span> </span>
+<span id="cb114-5"><a href="#cb114-5" aria-hidden="true" tabindex="-1"></a>  <span class="fu">select</span>(mainStat, depart) <span class="sc">%&gt;%</span> </span>
+<span id="cb114-6"><a href="#cb114-6" aria-hidden="true" tabindex="-1"></a>  <span class="fu">mutate</span>(<span class="at">mainStat =</span> <span class="fu">str_replace_all</span>(mainStat, <span class="st">","</span>,<span class="st">" "</span>)) <span class="sc">%&gt;%</span> </span>
+<span id="cb114-7"><a href="#cb114-7" aria-hidden="true" tabindex="-1"></a>  <span class="fu">unnest_tokens</span>(word, mainStat, </span>
+<span id="cb114-8"><a href="#cb114-8" aria-hidden="true" tabindex="-1"></a>                <span class="at">token =</span> thai_tokenizer,</span>
+<span id="cb114-9"><a href="#cb114-9" aria-hidden="true" tabindex="-1"></a>                <span class="at">token_engine =</span> <span class="st">"longest"</span>) <span class="sc">%&gt;%</span> </span>
+<span id="cb114-10"><a href="#cb114-10" aria-hidden="true" tabindex="-1"></a>  <span class="fu">filter</span>(<span class="sc">!</span>word <span class="sc">%in%</span> stop_words) <span class="sc">%&gt;%</span> </span>
+<span id="cb114-11"><a href="#cb114-11" aria-hidden="true" tabindex="-1"></a>  <span class="fu">filter</span>(<span class="sc">!</span><span class="fu">str_detect</span>(word, <span class="st">"</span><span class="sc">\\</span><span class="st">d+"</span>)) <span class="sc">%&gt;%</span> </span>
+<span id="cb114-12"><a href="#cb114-12" aria-hidden="true" tabindex="-1"></a>  <span class="fu">mutate</span>(<span class="at">word =</span> <span class="fu">str_squish</span>(word)) <span class="sc">%&gt;%</span> </span>
+<span id="cb114-13"><a href="#cb114-13" aria-hidden="true" tabindex="-1"></a>  <span class="fu">group_by</span>(depart, word) <span class="sc">%&gt;%</span> </span>
+<span id="cb114-14"><a href="#cb114-14" aria-hidden="true" tabindex="-1"></a>  <span class="fu">count</span>() <span class="sc">%&gt;%</span> </span>
+<span id="cb114-15"><a href="#cb114-15" aria-hidden="true" tabindex="-1"></a>  <span class="fu">arrange</span>(<span class="fu">desc</span>(n))</span></code><button title="Copy to Clipboard" class="code-copy-button"><i class="bi"></i></button></pre></div>
 </div>
 </section>
 
